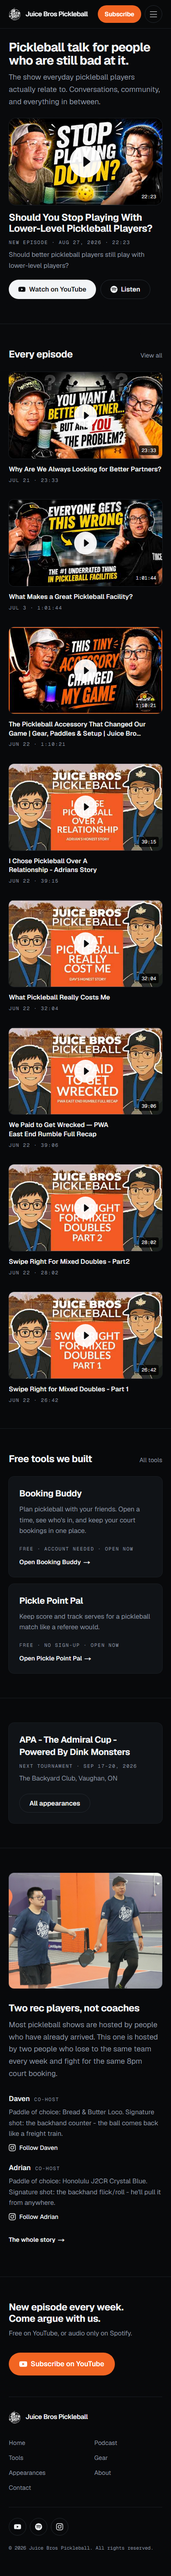
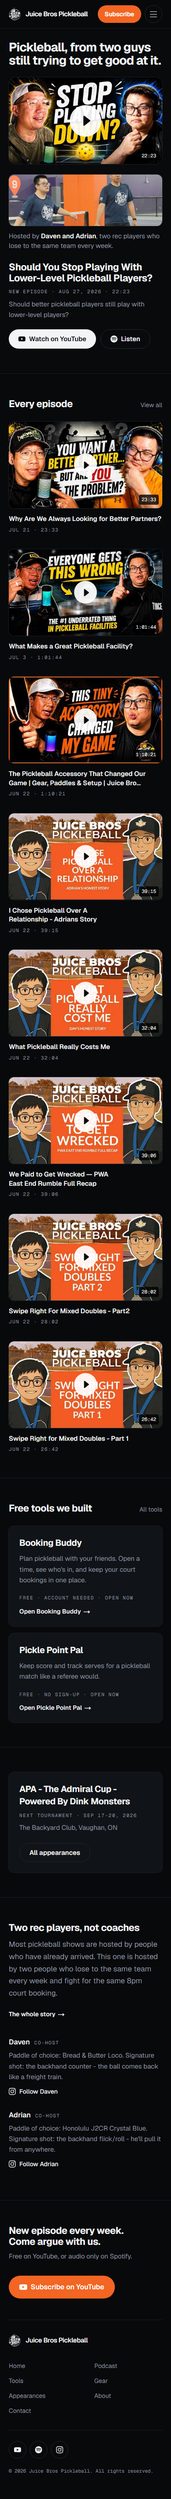
Home: new h1, and the host photo comes back to the hero
The old headline put the self-deprecation on the visitor ("people who are
still bad at it"), which is not what this show does — the joke is meant to be
at the hosts' expense. It now reads "Pickleball, from two guys still trying to
get good at it."

An earlier candidate ("everything about pickleball except how to get better at
it") was dropped as factually wrong: The Pickleball Plateau, both parts of What
Our Pickleball Tournaments Taught Us, Why Are We Always Looking For Better
Partners and The Accessory That Changed Our Game are all about getting better.
What the show does not do is coaching and drills, which is a narrower claim
than the line was making.

The host photo returns to the first screen. It was never the problem — making
it a full-bleed background that type had to survive on top of was, which is
what forced the scrim, the drop shadow and the WebGL layer. It now takes the
empty column beside the video on wide screens, so the hosts are visible at a
size where you can actually see them and it costs no vertical height at all;
narrow, it falls under the video as a short strip. Both actions still clear the
fold everywhere: the Watch button now ends at y=723 at 1440 (was 806) and 793
at 390.

Two consequences, both handled:
- The standfirst is gone. `siteConfig.description` said what the new headline
  says, and it still carries the page's meta description, so printing it was a
  duplicate.
- The hosts section drops its photograph. There is one host photo in the
[…]

diff --git a/src/app/(home)/sections/stage.tsx b/src/app/(home)/sections/stage.tsx
@@ -21,15 +21,25 @@ export function Stage({ episode }: { episode: Episode }) {
 
   return (
     <section className="bx-measure pt-7 pb-14 sm:pt-8 sm:pb-20">
-      <div className="max-w-[52rem]">
-        <h1 className="bx-display text-[clamp(1.75rem,4.4vw,2.75rem)]">
-          Pickleball talk for people who are still bad at it.
+      <div>
+        <h1 className="bx-display max-w-[20ch] text-[clamp(1.75rem,4.4vw,2.75rem)]">
+          Pickleball, from two guys still trying to get good at it.
         </h1>
-        <p className="mt-2.5 max-w-[54ch] text-[1.0625rem] leading-relaxed text-[var(--bx-muted)]">
-          {siteConfig.description}
-        </p>
+        {/* No standfirst under the h1 on purpose. `siteConfig.description`
+            ("the show everyday pickleball players actually relate to") says
+            what the headline now says, and it still carries the page's meta
+            description, so printing it here was a duplicate that pushed the
+            call to action off a 1440x810 laptop. */}
 
-        <div className="mt-6">
+        {/* Wide, the host photo takes the empty column beside the video, so the
+            hosts are on the first screen at a size where you can actually see
+            them and it costs no vertical space at all. Narrow, it falls under
+            the video as a short strip.
+
+            The incumbent hero made this same photo a full-bleed background that
+            type had to survive on top of, which is what forced a scrim, a drop
+            shadow and a WebGL layer. Given its own box it needs none of that. */}
+        <div className="mt-6 grid gap-6 lg:grid-cols-[minmax(0,1fr)_17rem] lg:items-start lg:gap-8">
           <Link
             href={`/podcast/${episode.slug}`}
             className="bx-tile bx-stage group aspect-video"
@@ -48,50 +58,75 @@ export function Stage({ episode }: { episode: Episode }) {
             <span className="bx-dur">{formatRuntime(episode.duration)}</span>
           </Link>
 
-          <div className="mt-4 flex flex-col gap-5 sm:flex-row sm:items-start sm:justify-between sm:gap-10">
-            <div>
-              <h2 className="bx-h2 max-w-[24ch] text-[clamp(1.375rem,3.2vw,1.875rem)]">
-                <Link
-                  href={`/podcast/${episode.slug}`}
-                  className="transition-colors duration-200 hover:text-[var(--bx-muted)]"
-                >
-                  {episodeMetaTitle(episode.title)}
-                </Link>
-              </h2>
-              <p className="bx-meta mt-2.5">
-                New episode
-                <span aria-hidden> · </span>
-                {formatAired(episode.published)}
-                <span aria-hidden> · </span>
-                {formatRuntime(episode.duration)}
-              </p>
-              {hook && (
-                <p className="mt-2 max-w-[58ch] text-[0.9375rem] leading-relaxed text-[var(--bx-muted)]">
-                  {hook}
-                </p>
-              )}
+          <figure>
+            <div className="bx-tile aspect-[3/1] sm:aspect-[4/1] lg:aspect-[4/3]">
+              {/* eslint-disable-next-line @next/next/no-img-element -- local photo, no next/image optimization needed here */}
+              <img
+                src="/pictures/adrian-dav.jpg"
+                alt="Daven and Adrian on court between points"
+                width={1024}
+                height={768}
+                loading="lazy"
+                decoding="async"
+                className="object-[50%_24%]"
+              />
             </div>
+            <figcaption className="mt-3 text-[0.9375rem] text-[var(--bx-muted)]">
+              Hosted by{" "}
+              <Link
+                href="/about"
+                className="font-semibold text-[var(--bx-ink)] transition-colors duration-200 hover:text-[var(--bx-muted)]"
+              >
+                Daven and Adrian
+              </Link>
+              , two rec players who lose to the same team every week.
+            </figcaption>
+          </figure>
+        </div>
 
-            <div className="flex shrink-0 flex-wrap gap-2.5">
-              <a
-                href={episode.url}
-                target="_blank"
-                rel="noopener noreferrer"
-                className="bx-btn bx-btn-play"
+        <div className="mt-6 flex max-w-[52rem] flex-col gap-5 sm:flex-row sm:items-start sm:justify-between sm:gap-10">
+          <div>
+            <h2 className="bx-h2 max-w-[24ch] text-[clamp(1.375rem,3.2vw,1.875rem)]">
+              <Link
+                href={`/podcast/${episode.slug}`}
+                className="transition-colors duration-200 hover:text-[var(--bx-muted)]"
               >
-                <YoutubeIcon className="size-4" />
-                Watch on YouTube
-              </a>
-              <a
-                href={siteConfig.links.spotify}
-                target="_blank"
-                rel="noopener noreferrer"
-                className="bx-btn bx-btn-ghost"
-              >
-                <SpotifyIcon className="size-4" />
-                Listen
-              </a>
-            </div>
+                {episodeMetaTitle(episode.title)}
+              </Link>
+            </h2>
+            <p className="bx-meta mt-2.5">
+              New episode
+              <span aria-hidden> · </span>
+              {formatAired(episode.published)}
+              <span aria-hidden> · </span>
+              {formatRuntime(episode.duration)}
+            </p>
+            {hook && (
+              <p className="mt-2 max-w-[58ch] text-[0.9375rem] leading-relaxed text-[var(--bx-muted)]">
+                {hook}
+              </p>
+            )}
+          </div>
+
+          <div className="flex shrink-0 flex-wrap gap-2.5">
+            <a
+              href={episode.url}
+              target="_blank"
+              rel="noopener noreferrer"
+              className="bx-btn bx-btn-play"
+            >
+              <YoutubeIcon className="size-4" />
+              Watch on YouTube
+            </a>
+            <a
+              href={siteConfig.links.spotify}
+              target="_blank"
+              rel="noopener noreferrer"
+              className="bx-btn bx-btn-ghost"
+            >
+              <SpotifyIcon className="size-4" />
+              Listen
+            </a>
           </div>
         </div>
       </div>

diff --git a/src/app/(home)/sections/the-hosts.tsx b/src/app/(home)/sections/the-hosts.tsx
@@ -14,59 +14,55 @@ import { InstagramIcon } from "@/components/icons";
 export function TheHosts() {
   return (
     <section className="bx-measure bx-hair py-14 sm:py-20">
-      <div className="grid gap-8 lg:grid-cols-[minmax(0,26rem)_1fr] lg:items-center lg:gap-14">
-        <figure className="bx-tile aspect-[4/3] lg:aspect-square">
-          {/* eslint-disable-next-line @next/next/no-img-element -- local photo, no next/image optimization needed here */}
-          <img
-            src="/pictures/adrian-dav.jpg"
-            alt="Daven and Adrian at the net during a rec game"
-            width={1200}
-            height={1200}
-            loading="lazy"
-            decoding="async"
-            className="object-[50%_35%]"
-          />
-        </figure>
-
+      {/* No photograph here. There is exactly one host photo in the library and
+          the stage already runs it beside the video; printing the same picture
+          twice on one page reads as an asset shortage rather than a design. The
+          section carries its weight in the equipment lines instead, which are
+          the most host-specific content on the page. */}
+      <div className="grid gap-10 lg:grid-cols-[minmax(0,24rem)_1fr] lg:gap-16">
         <div>
-          <h2 className="bx-h2 text-[1.375rem] sm:text-2xl">Two rec players, not coaches</h2>
-          <p className="mt-3 max-w-[54ch] text-[1.0625rem] leading-relaxed text-[var(--bx-muted)]">
-            Most pickleball shows are hosted by people who have already arrived. This one is
-            hosted by two people who lose to the same team every week and fight for the same
-            8pm court booking.
+          <h2 className="bx-h2 text-[1.375rem] sm:text-2xl">
+            Two rec players, not coaches
+          </h2>
+          <p className="mt-3 text-[1.0625rem] leading-relaxed text-[var(--bx-muted)]">
+            Most pickleball shows are hosted by people who have already arrived.
+            This one is hosted by two people who lose to the same team every
+            week and fight for the same 8pm court booking.
           </p>
-
-          <dl className="mt-8 grid gap-6 sm:grid-cols-2">
-            {team.map((member) => (
-              <div key={member.name}>
-                <dt className="flex items-baseline gap-2.5">
-                  <span className="text-base font-semibold">{member.name}</span>
-                  <span className="bx-meta">{member.role}</span>
-                </dt>
-                <dd className="mt-1.5 text-[0.9375rem] leading-relaxed text-[var(--bx-muted)]">
-                  {member.funFact}
-                  <a
-                    href={member.instagramUrl}
-                    target="_blank"
-                    rel="noopener noreferrer"
-                    className="mt-2.5 flex items-center gap-2 text-sm font-medium text-[var(--bx-ink)] transition-colors duration-200 hover:text-[var(--bx-muted)]"
-                  >
-                    <InstagramIcon className="size-4" />
-                    Follow {member.name}
-                  </a>
-                </dd>
-              </div>
-            ))}
-          </dl>
 
           <Link
             href="/about"
-            className="mt-8 inline-flex text-sm font-semibold transition-colors duration-200 hover:text-[var(--bx-muted)]"
+            className="mt-6 inline-flex text-sm font-semibold transition-colors duration-200 hover:text-[var(--bx-muted)]"
           >
             The whole story
-            <span aria-hidden className="ml-1.5">&rarr;</span>
+            <span aria-hidden className="ml-1.5">
+              &rarr;
+            </span>
           </Link>
         </div>
+
+        <dl className="grid gap-8 sm:grid-cols-2">
+          {team.map((member) => (
+            <div key={member.name}>
+              <dt className="flex items-baseline gap-2.5">
+                <span className="text-base font-semibold">{member.name}</span>
+                <span className="bx-meta">{member.role}</span>
+              </dt>
+              <dd className="mt-1.5 text-[0.9375rem] leading-relaxed text-[var(--bx-muted)]">
+                {member.funFact}
+                <a
+                  href={member.instagramUrl}
+                  target="_blank"
+                  rel="noopener noreferrer"
+                  className="mt-2.5 flex items-center gap-2 text-sm font-medium text-[var(--bx-ink)] transition-colors duration-200 hover:text-[var(--bx-muted)]"
+                >
+                  <InstagramIcon className="size-4" />
+                  Follow {member.name}
+                </a>
+              </dd>
+            </div>
+          ))}
+        </dl>
       </div>
     </section>
   );
